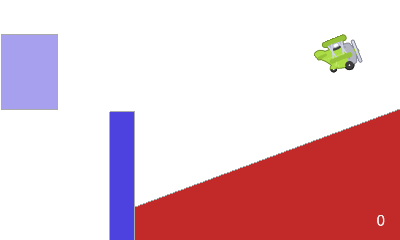
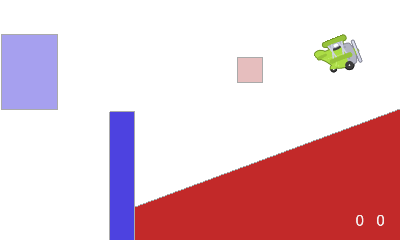
push

Changed region(s): [[0.57, 0.2333, 0.66, 0.35], [0.87, 0.9042, 0.96, 0.9333]]

diff --git a/loop/engine/Engine.js b/loop/engine/Engine.js
@@ -34,7 +34,7 @@ class Engine {
         this.accumulator += this.frameTime;
         while (this.accumulator >= this.dt) {
             this.physics.fixedStep(this.dt);
-            this.logic.fixedUpdate(this.dt,this.t,this.frameTime);
+            this.logic.fixedUpdate(this.dt, this.t, this.frameTime);
             this.t += this.dt;
             this.accumulator -= this.dt;
         }
@@ -42,10 +42,11 @@ class Engine {
         this.currentTime = newTime;
     }
 
+    // engine commands
     spawn(gameObject, x, y, angle) {
-        if (this.gameObjects.get(gameObject.name)){ // spawn new gameObject if the object exists
+        if (gameObject) { // spawn new gameObject if exists
             var spawnName = gameObject.name + Utils.id();
-            var spawnObject = new GameObject(this,this.gameObjects.get(gameObject.actor.name).actor, spawnName);
+            var spawnObject = new GameObject(this, gameObject.actor, spawnName);
             spawnObject.rigidbody.setUserData({ name: spawnName, tags: spawnObject.actor.tags });
             spawnObject = Object.assign(spawnObject, { "x": x, "y": y, "angle": angle, "sleeping": false });
             this.scope[spawnObject.name] = spawnObject;
@@ -53,8 +54,27 @@ class Engine {
         }
     }
 
-    delete(actorName) {
-        this.gameObjects.get(actorName).dead =true; // mark to be eliminated
+    delete(gameObject) {
+        gameObject.dead = true; // mark to be eliminated
+    }
+
+    animate(gameObject, id, animation, fps) {
+        var secuence = animation.split(",");
+        var dtAnim = 1000 / fps;
+        if (gameObject.timer[id].time + this.dt < 1000) gameObject.timer[id].time += this.dt;
+        else gameObject.timer[id].time = 0;
+        var frame = gameObject.timer[id].time / dtAnim;
+        gameObject.image = secuence[Math.floor(frame % secuence.length)];
+    }
+
+    push(gameObject, force, angle) {
+        var forceX = force * Math.cos(angle * Math.PI / 180) * Physics.pixelsPerMeter;
+        var forceY = force * Math.sin(angle * Math.PI / 180) * Physics.pixelsPerMeter;
+        gameObject.rigidbody.applyForce(planck.Vec2(forceX, forceY), gameObject.rigidbody.getWorldCenter());
+    }
+
+    push_to(gameObject, force, x, y) {
+        this.push(gameObject, force, Math.atan2(y - gameObject.y, x - gameObject.x) * 180 / Math.PI);
     }
 
     timer(gameObject, id, expression) {
@@ -80,20 +100,8 @@ class Engine {
         return value;
     }
 
-    animate(gameObject, id, animation, fps) {
-        var secuence = animation.split(",");
-        var dtAnim = 1000 / fps;
-        if (gameObject.timer[id].time + this.dt < 1000) gameObject.timer[id].time += this.dt;
-        else gameObject.timer[id].time = 0;
-        var frame = gameObject.timer[id].time / dtAnim;
-        gameObject.image = secuence[Math.floor(frame % secuence.length)];
-    }
-
     keyboard(key, mode) {
-        var value = Input.keyList[key][mode];
-        Input.keyList[key].down = false;
-        Input.keyList[key].up = true;
-        return (value);
+        return (Input.keyList[key][mode]);
     }
 
     touch(mode, onActor, gameObject) {

diff --git a/loop/engine/GameObject.js b/loop/engine/GameObject.js
@@ -149,18 +149,22 @@ class GameObject {
     get image() { return this.container.sprite.image };
     set image(value) {
         if (value != this.container.sprite.image) {
-            var sprite = this.container.sprite;
-            sprite.image = value;
-            sprite.texture = player.file.loader.resources[value].texture;
-            sprite.texture.rotate = 8;
-            sprite.width = sprite.texture.width * sprite.tileX;
-            sprite.height = sprite.texture.height * sprite.tileY;
+            this.container.sprite.cacheAsBitmap = false;
+            this.container.sprite.image = value;
+            this.container.sprite.texture = player.file.loader.resources[value].texture;
+            this.container.sprite.texture.rotate = 8;
+            this.container.sprite.width = this.container.sprite.texture.width * this.container.sprite.tileX;
+            this.container.sprite.height = this.container.sprite.texture.height * this.container.sprite.tileY;
             this.rigidbody.getFixtureList().m_shape = Body.getCollider(this.collider, this.width, this.height);
         }
     };
 
     get color() { return PIXI.utils.hex2string(this.container.sprite.tint) };
-    set color(value) { this.container.sprite.tint = PIXI.utils.string2hex(value) }
+    set color(value) { 
+        this.container.sprite.cacheAsBitmap = false;
+        this.container.sprite.tint = PIXI.utils.string2hex(value) ;
+    }
+
     get opacity() { return this.container.sprite.alpha };
     set opacity(value) { this.container.sprite.alpha = value };
 

diff --git a/loop/engine/Rule.js b/loop/engine/Rule.js
@@ -7,7 +7,7 @@ class Rule {
             expression += this.parseNodeList(script.nodeList) + ";"; // replace Me by actor's name
         });
         expression = expression.replace(/Me\./g, gameObject.name + ".");
-        //       console.log(expression);
+        // console.log(expression);
         return (math.compile(expression));
     }
 
@@ -37,7 +37,7 @@ class Rule {
     }
 
     delete() {
-        return ("Engine.delete(Me.name)");
+        return ("Engine.delete(" + this.gameObject.name + ")");
     }
 
     animate(params) {
@@ -82,6 +82,14 @@ class Rule {
         var x = "Me.x = " + params.pivot_X + " + dist * cos(Me.angle deg);";
         var y = "Me.y = " + params.pivot_Y + " + dist * sin(Me.angle deg)";
         return (dist + dx0 + dy0 + angle0 + dx1 + dy1 + angle1 + da + daa + angle + x + y);
+    }
+
+    push(params) {
+        return ("Engine.push(" + this.gameObject.name + "," + params.force + "," + params.angle + ")");
+    }
+
+    push_to(params) {
+        return ("Engine.push_to(" + this.gameObject.name + "," + params.force + "," + params.x + "," + params.y + ")");
     }
 
     // Conditions

diff --git a/loop/engine/Sprite.js b/loop/engine/Sprite.js
@@ -23,7 +23,7 @@ class Sprite {
         sprite.scrollY = actor.scrollY;
         sprite.tileX = actor.tileX;
         sprite.tileY = actor.tileY;
-     //   if (!scroll) sprite.cacheAsBitmap = true;
+        if (!scroll) sprite.cacheAsBitmap = true;
         return (sprite);
     }
 }
